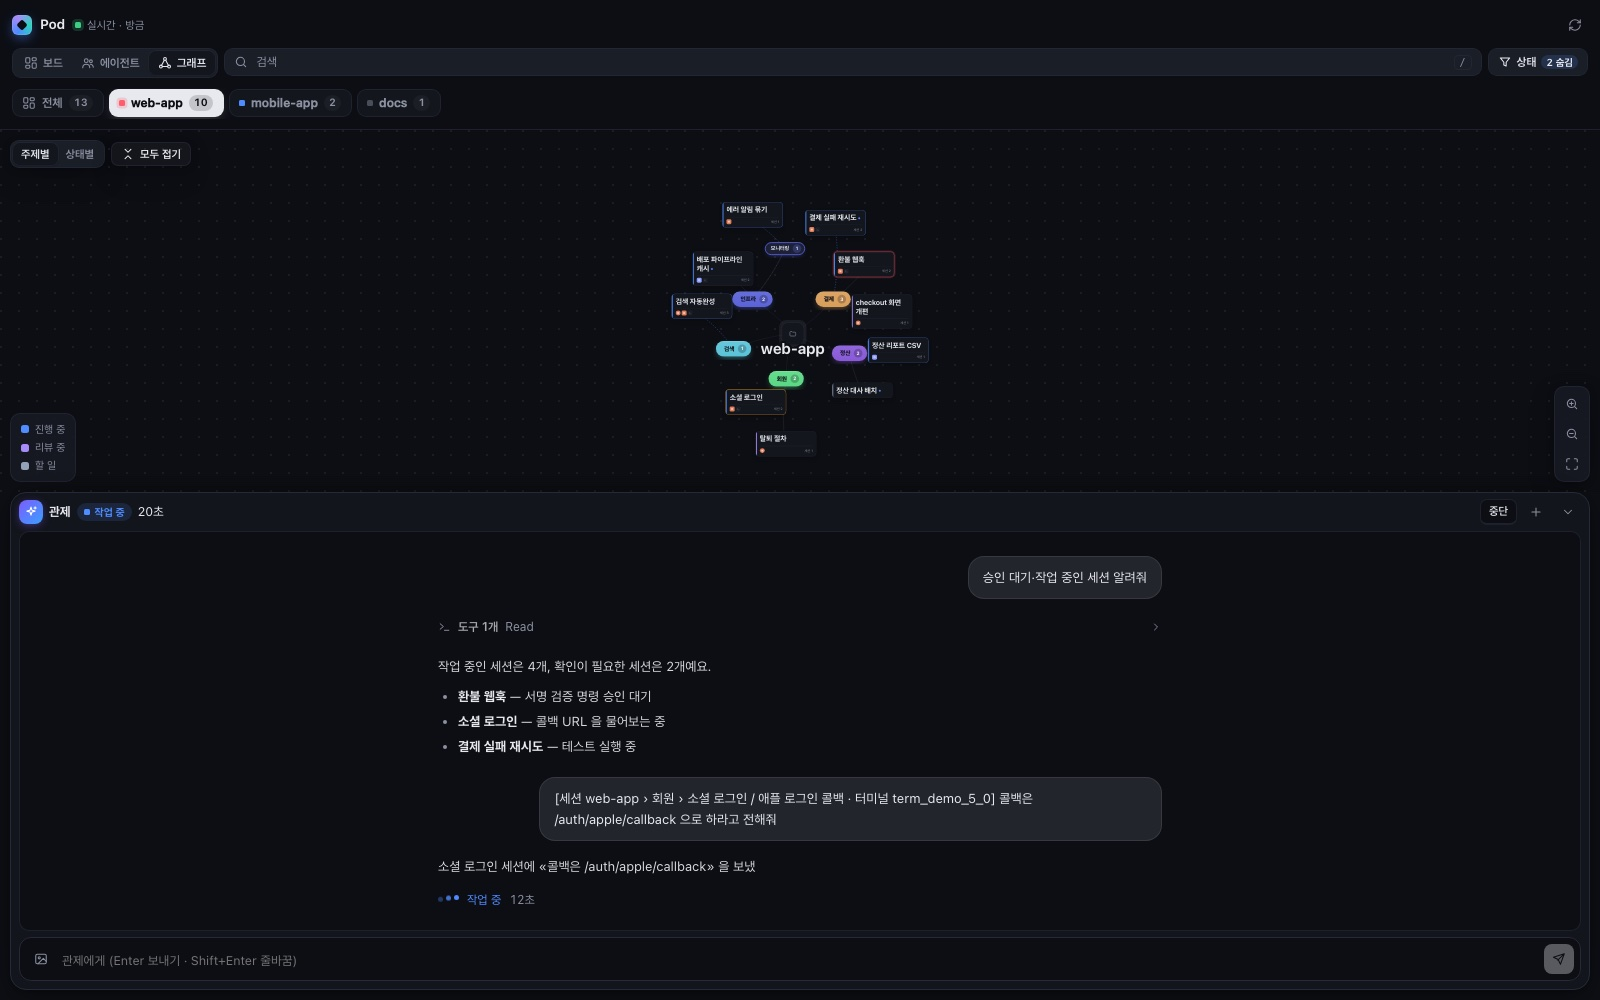
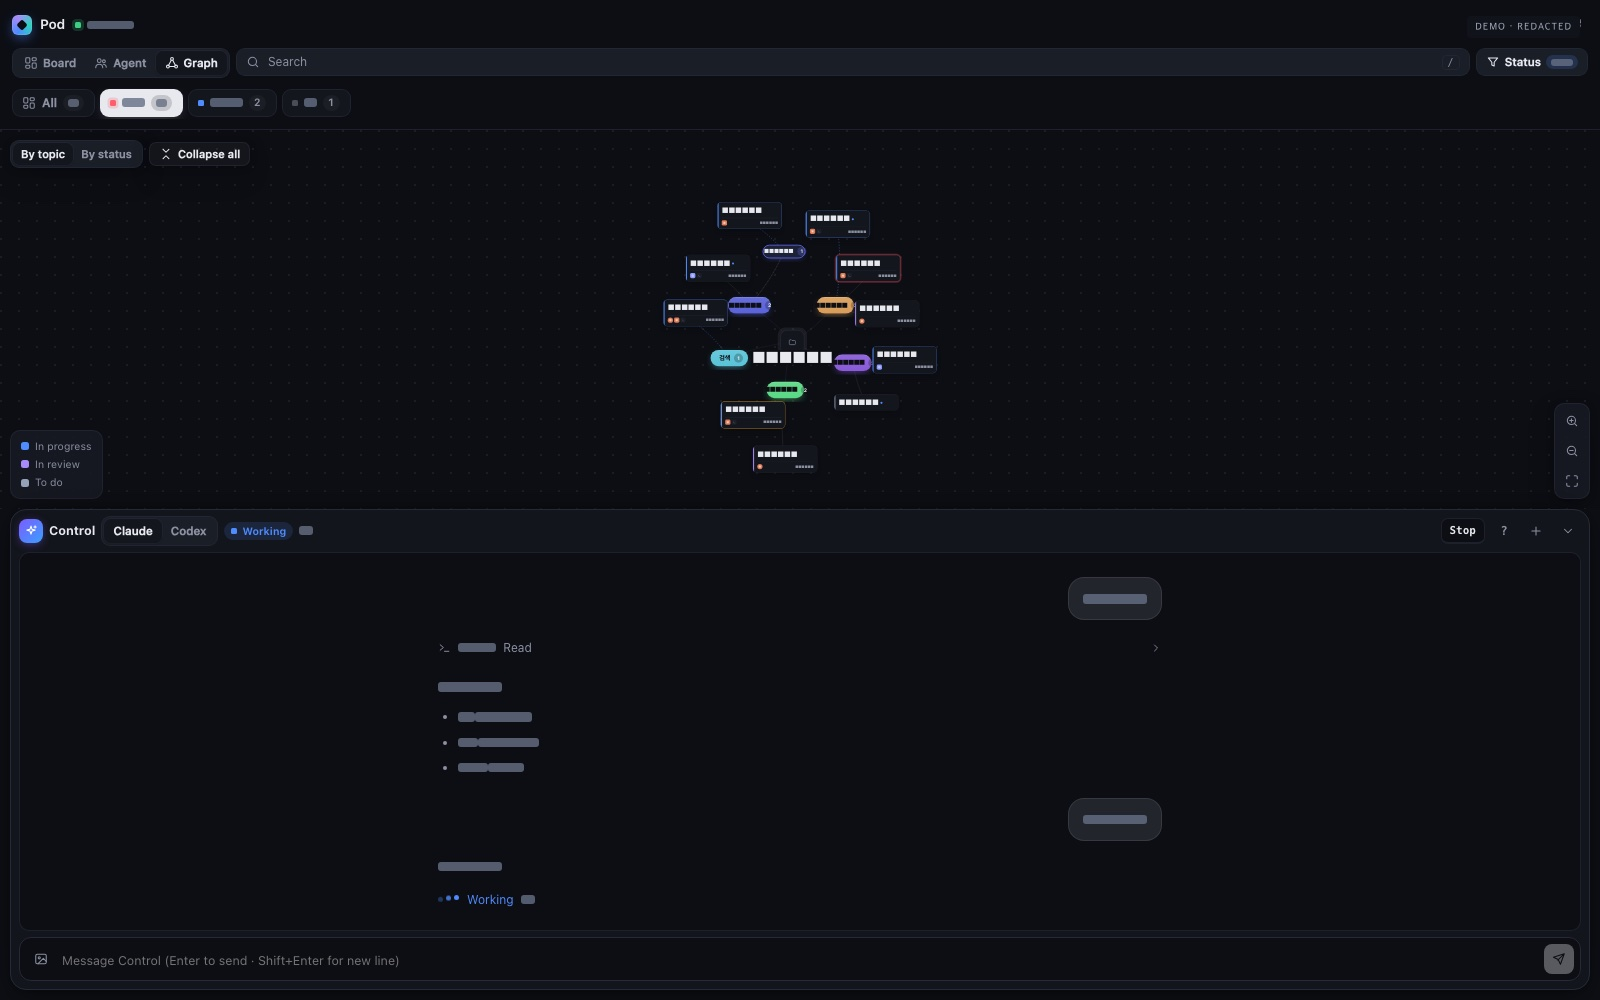
fix: redact all published screenshot data

diff --git a/README.md b/README.md
@@ -151,3 +151,5 @@ orca plugin validate . --json
 ```
 
 CLI 경로는 `ORCA_CLI` 환경 변수 → `/usr/local/bin/orca` → `/opt/homebrew/bin/orca` → `PATH` 순으로 찾는다.
+
+Screenshots use synthetic demo data with workspace names, identifiers, commands and conversation text redacted.
